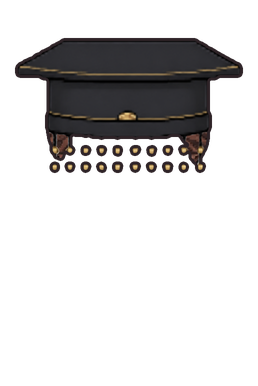
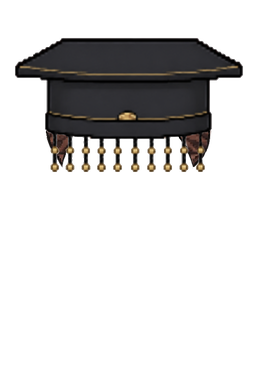
학사모 → 면류관(구슬 줄 살림), 헤어 4개(왕비 티아라 머리·은발 웨이브·봉황 비녀 쪽머리·진주 땋은 쪽머리), 신발 '노랑 운동화' 추가
Claude-Session: https://claude.ai/code/session_015VxnKS3baGbwJXJNNp74ix

diff --git a/avatar.js b/avatar.js
@@ -7,11 +7,11 @@ const AV_HAIR = [["#6b4a3f"], ["#3a3a46"], ["#ffe066"], ["#ffb347"], ["#ff6b6b"]
 // 볼색: 볼터치 그림(av/cheek-N.png, av/cheek.py로 만듦)은 모양만 있어서 이 색을 곱해서 칠함. 주근깨(av/cheek-N-f.png)는 그림 색 그대로
 const AV_CHEEK = [["#ff8fa3"], ["#ffab91"], ["#ff5c8a"], ["#ff6b6b"], ["#ffb36b"], ["#c9a0ff"]];
 const AV_FRECK = [2, 3]; // 주근깨가 같이 있는 볼터치 번호
-const AV_EAR = new Set([5, 6, 8, 9, 10, 11, 16, 19, 20, 23]); // 귀를 머리 위에 다시 그리는 머리(짧은 머리). 옆 더듬이 머리가 귀 앞으로 내려오는 긴 머리는 안 올림 (머리카락이 잘려 보여서)
+const AV_EAR = new Set([5, 6, 8, 9, 10, 11, 16, 19, 20, 23, 29]); // 귀를 머리 위에 다시 그리는 머리(짧은 머리). 옆 더듬이 머리가 귀 앞으로 내려오는 긴 머리는 안 올림 (머리카락이 잘려 보여서)
 const AV_NAMES = {
-  hair: ["앞머리 양 똥머리", "앞머리 똥머리", "어깨 웨이브", "양 갈래 머리", "앞머리 단발", "가르마 짧은 머리", "쉼표 머리", "앞머리 긴 웨이브", "삐죽 머리", "곱슬 머리", "올린 삐죽 머리", "옆 가르마 머리", "산타 모자", "상어 모자", "양 갈래 땋은 머리", "양 갈래 웨이브", "까까머리", "긴 생머리", "앞머리 웨이브", "부스스 머리", "번개 스포츠머리", "레게 머리", "울프컷", "모히칸", "왕자 티아라 머리", "곰돌이 모자", "학사모", "금발 왕관 머리"],
+  hair: ["앞머리 양 똥머리", "앞머리 똥머리", "어깨 웨이브", "양 갈래 머리", "앞머리 단발", "가르마 짧은 머리", "쉼표 머리", "앞머리 긴 웨이브", "삐죽 머리", "곱슬 머리", "올린 삐죽 머리", "옆 가르마 머리", "산타 모자", "상어 모자", "양 갈래 땋은 머리", "양 갈래 웨이브", "까까머리", "긴 생머리", "앞머리 웨이브", "부스스 머리", "번개 스포츠머리", "레게 머리", "울프컷", "모히칸", "왕자 티아라 머리", "곰돌이 모자", "면류관", "금발 왕관 머리", "왕비 티아라 머리", "은발 웨이브", "봉황 비녀 쪽머리", "진주 땋은 쪽머리"],
   top: ["세일러 블라우스", "크림 후드티", "검정 재킷", "분홍 가디건", "고양이 후드티", "흰 셔츠", "곰돌이 니트", "검정 프릴 블라우스", "줄무늬 티", "하얀 패딩", "빨간 망토", "카키 야상", "멜빵 원피스", "검정 후드티", "레이스 블라우스", "검정 도복", "가죽 재킷", "산타 옷", "산타 원피스", "요정 옷", "눈사람 옷", "진저브레드 옷", "루돌프 옷", "트리 스웨터 잠옷", "호두까기 인형 옷", "의사 가운 세트", "요리사 세트", "멜빵바지 세트", "승무원 세트", "기장 세트", "가디건 세트", "흰 가운 세트", "흰 도복 세트", "빨간 로봇 슈트", "소방관 옷", "우주인 점퍼", "군복 셔츠", "요리사 옷", "경찰 제복", "의사 가운", "야구 유니폼", "탐험가 셔츠", "승무원 재킷", "갈색 가디건", "컵케이크 앞치마", "검정 도복 세트", "농구 유니폼", "공룡 잠옷", "소방관 세트", "경찰 세트", "레이싱 슈트", "조종사 슈트", "우주복", "하트 꽈배기 가디건", "체크 교복 재킷", "민트 꽃 블라우스", "보라 별 가디건", "분홍 하트 재킷", "백설 공주 옷", "얼음 공주 옷", "세일러 교복", "흰 패딩", "곰돌이 스웨터", "하늘 줄무늬 티", "남색 야구 점퍼", "남색 세일러 블라우스", "분홍 리본 가디건", "자주 리본 케이프", "검정 보라 후드티", "멜빵 블라우스"],
-  shoes: ["맨발", "검정 운동화", "카모 운동화", "파랑 하이탑", "빨강 농구화", "별 운동화", "공룡 발 슬리퍼", "체크 슬립온", "축구화", "검정 로퍼", "토끼 슬리퍼", "갈색 메리제인", "하늘 실내화", "민트 하이탑", "산타 부츠", "분홍 하이탑", "병아리 슬리퍼", "털 부츠", "곰돌이 슬리퍼", "흰 카우보이 부츠", "분홍 장화", "검정 워커", "분홍 캔버스화", "하늘 리본 구두", "보라 리본 구두", "흰 리본 운동화", "하늘 리본 운동화", "크림 고무 샌들", "흰 곰 슬리퍼", "검정 로우 캔버스화", "남색 슬립온", "노랑 샌들", "갈색 로퍼"],
+  shoes: ["맨발", "검정 운동화", "카모 운동화", "파랑 하이탑", "빨강 농구화", "별 운동화", "공룡 발 슬리퍼", "체크 슬립온", "축구화", "검정 로퍼", "토끼 슬리퍼", "갈색 메리제인", "하늘 실내화", "민트 하이탑", "산타 부츠", "분홍 하이탑", "병아리 슬리퍼", "털 부츠", "곰돌이 슬리퍼", "흰 카우보이 부츠", "분홍 장화", "검정 워커", "분홍 캔버스화", "하늘 리본 구두", "보라 리본 구두", "흰 리본 운동화", "하늘 리본 운동화", "크림 고무 샌들", "흰 곰 슬리퍼", "검정 로우 캔버스화", "남색 슬립온", "노랑 샌들", "갈색 로퍼", "노랑 운동화"],
   eye: ["기본 눈", "날렵한 눈", "졸린 눈", "웃는 눈", "윙크", "반짝 눈", "울먹 눈", "화난 눈", "옆 보는 눈", "걱정 눈", "놀란 눈", "시큰둥 눈", "하트 눈", "빙글빙글 눈", "속눈썹 눈", "점 눈", "초롱 눈", "울먹 초롱 눈", "질끈 눈", "웃는 초롱 눈", "초롱 윙크", "졸린 초롱 눈"],
   cheek: ["볼터치 없음", "볼 정중앙", "콧잔등 + 주근깨", "볼 정중앙 + 주근깨", "빗금 볼터치", "작은 동그라미", "콧잔등", "크게 발그레"],
   mouth: ["미소", "활짝 웃는 입", "고양이 입", "작은 입", "시무룩 입", "삐뚤 입", "씩 웃는 입", "메롱", "이 보이게 웃기", "놀란 입", "뽀뽀 입", "일자 입", "송곳니 웃음", "울먹 입", "크게 웃는 입", "쪽 입", "살짝 미소", "삐죽 입"],
@@ -23,9 +23,9 @@ AV_NAMES.pet = ["펫 없음", "강아지", "삼색 고양이", "토끼", "햄스
 const AV_PRICE = { // 0이면 무료 (기본으로 입는 것)
   acc: [0, 14, 12, 10, 6, 7, 8, 10, 8, 14, 14, 14, 14, 9, 10, 8, 9, 10, 6, 8, 12],
   pet: [0, 12, 12, 12, 12, 12, 14, 16, 18, 16, 16, 18, 20, 14, 14, 14, 14, 15, 15, 16, 15, 14, 14],
-  hair: [9, 8, 8, 8, 0, 6, 6, 8, 0, 8, 7, 6, 10, 10, 9, 9, 5, 8, 9, 7, 8, 9, 8, 8, 12, 9, 10, 12],
+  hair: [9, 8, 8, 8, 0, 6, 6, 8, 0, 8, 7, 6, 10, 10, 9, 9, 5, 8, 9, 7, 8, 9, 8, 8, 12, 9, 10, 12, 12, 9, 12, 12],
   top: [8, 7, 9, 7, 9, 0, 8, 9, 0, 9, 10, 9, 9, 8, 10, 10, 11, 14, 14, 14, 13, 13, 13, 12, 14, 12, 12, 11, 12, 12, 10, 12, 11, 12, 10, 12, 9, 10, 10, 11, 10, 9, 10, 8, 9, 11, 9, 13, 12, 12, 13, 12, 14, 9, 11, 10, 9, 11, 12, 12, 10, 11, 9, 7, 10, 9, 8, 10, 9, 10],
-  shoes: [0, 0, 6, 6, 7, 6, 8, 6, 7, 6, 8, 7, 5, 6, 8, 6, 8, 9, 8, 9, 7, 9, 6, 7, 7, 6, 6, 6, 8, 6, 6, 6, 7],
+  shoes: [0, 0, 6, 6, 7, 6, 8, 6, 7, 6, 8, 7, 5, 6, 8, 6, 8, 9, 8, 9, 7, 9, 6, 7, 7, 6, 6, 6, 8, 6, 6, 6, 7, 6],
   eye: Array(22).fill(0),
   mouth: Array(18).fill(0),
   cheek: Array(8).fill(0),
@@ -37,8 +37,8 @@ const AV_ACC = ["acc"]; // 장신구 칸
 const AV_BACK = new Set(["acc-1", "acc-3", "acc-9", "acc-10", "acc-11", "acc-12"]); // 몸보다 뒤에 그리는 장신구 (날개·꼬리). 나머지(망토)는 상의 위
 const AV_TABS = [["eye", "눈"], ["mouth", "입"], ["cheek", "볼터치"], ["hair", "헤어"], ["top", "상의"], ["bottom", "하의"], ["full", "한벌"], ["shoes", "신발"], ["acc", "장신구"], ["pet", "펫"]];
 const AV_FULL = new Set(["top-50","top-51","top-52","top-45","top-47","top-48","top-49","top-17","top-18","top-19","top-20","top-21","top-22","top-23","top-24","top-25","top-26","top-27","top-28","top-29","top-30","top-31","top-32"]); // 위아래 한 벌 옷: 입으면 하의를 안 그림. 가게에서는 '한벌' 칸
-const AV_V = "?v=50"; // 그림을 고치면 숫자를 올림 (브라우저에 남은 옛 그림 대신 새로 받게)
-const AV_HAT = new Set(["hair-12", "hair-13", "hair-24", "hair-25", "hair-26", "hair-27"]); // 모자·헬멧 (헤어 칸): 머리색을 안 칠함, 귀도 안 올림
+const AV_V = "?v=51"; // 그림을 고치면 숫자를 올림 (브라우저에 남은 옛 그림 대신 새로 받게)
+const AV_HAT = new Set(["hair-12", "hair-13", "hair-24", "hair-25", "hair-26", "hair-27", "hair-28", "hair-30", "hair-31"]); // 모자·헬멧 (헤어 칸): 머리색을 안 칠함, 귀도 안 올림
 const AV_HIDE = new Set(["shoes-0"]); // 가게에 안 보이는 것 (맨발: 그림 없음)
 const avInTab = (it, k) => !AV_HIDE.has(it.id) && (k === "acc" ? AV_ACC.includes(it.slot) : k === "full" ? AV_FULL.has(it.id) : k === "top" ? it.slot === "top" && !AV_FULL.has(it.id) : it.slot === k); // 가게 칸에 보일 물건
 // 단위에 맞춘 글: "3 으쓱이 모자라요", "3으쓱으로 바꾸기" (이/가, 으로/로)

diff --git a/index.html b/index.html
@@ -1668,7 +1668,7 @@
     <button class="danger" onclick="resetEverything()">모든 데이터 초기화</button>
   </section>
 </div>
-<script src="avatar.js?v=50"></script><!-- 아바타를 고치면 avatar.js의 AV_V와 같이 숫자를 올림 -->
+<script src="avatar.js?v=51"></script><!-- 아바타를 고치면 avatar.js의 AV_V와 같이 숫자를 올림 -->
 <script>
 setTimeout(() => document.body.classList.add("ready"), 2000); // 혹시 아래에서 오류가 나도 2초 뒤엔 카드를 보여 줌
 // 다른 창(듀얼 모니터)으로 뗀 카드: { 카드: { w: 창, c: 카드, mark: 보드에 돌아올 자리, np: 글자 도구 창 } }

diff --git a/student.html b/student.html
@@ -159,7 +159,7 @@
     </div>
   </div>
 </div>
-<script src="avatar.js?v=50"></script><!-- 아바타를 고치면 avatar.js의 AV_V와 같이 숫자를 올림 -->
+<script src="avatar.js?v=51"></script><!-- 아바타를 고치면 avatar.js의 AV_V와 같이 숫자를 올림 -->
 <script type="module">
 // 서버: classes/{반 코드} = { unit, prices } · classes/{반 코드}/kids/{번호}-{비밀번호} = { n, pt, av, wear, own, buys, kidAt } (이름 없음)
 // 점수는 선생님 보드만 바꿈. 가게 물건은 입어 보기만 하다가 저장할 때 삼(buys에 남김). 선생님 보드가 받아서 점수를 뺌

diff --git a/av/hairuser.py b/av/hairuser.py
@@ -61,6 +61,7 @@ if os.path.exists('raw_user/base-2x.png'):
     Image.fromarray(bk.round().astype(np.uint8)).save(f'base-{k}.png', optimize=True)
     ek = bk.copy(); ek[~ear, 3] = 0; Image.fromarray(ek.round().astype(np.uint8)).save(f'ear-{k}.png', optimize=True)
 # 모자·헬멧(raw_user/hat-N-2x.png → hair-N.png, 헤어 칸): 흰 털·이빨이 있어서 그림 밖과 이어진 흰색 + 얼굴 구멍(가운데 가장 큰 흰 덩어리)만 지우고 테두리 정리. 머리색은 안 칠함
+HAT_HOLES, THIN = {30, 31}, {26}  # 한복 머리(귀 구멍이 흰 칸), 면류관
 for f in glob.glob('raw_user/hat-*-2x.png'):
   k = int(os.path.basename(f)[4:-7])
   a = np.array(Image.open(f).convert('RGBA').crop((0, 0, 516, 772))).astype(float)
@@ -68,9 +69,11 @@ for f in glob.glob('raw_user/hat-*-2x.png'):
   lab, n = ndimage.label(wh); edge = np.unique(np.r_[lab[0], lab[-1], lab[:, 0], lab[:, -1]])
   inner = [i for i in range(1, n + 1) if i not in edge]; face = max(inner, key=lambda i: (lab == i).sum()) if inner else -1
   out = np.isin(lab, edge) & (lab > 0) | (lab == face)
+  if k in HAT_HOLES: out |= np.isin(lab, [i for i in inner if (lab == i).sum() > 300])  # 귀 구멍처럼 막힌 흰 칸도 모두 비움
   for _ in range(2): out |= ndimage.binary_dilation(out) & (a[..., :3].min(-1) > 170) & (a[..., 3] > 0)
   a[out, 3] = 0
-  col, al = uniform(a[..., 3] > 128, a[..., :3], 2); a = np.dstack([col, al * 255])
+  if k not in THIN:  # 가는 줄(면류관 구슬 줄)이 있는 그림은 테두리를 다시 그리지 않음 (다시 그리면 가는 선이 지워짐)
+    col, al = uniform(a[..., 3] > 128, a[..., :3], 2); a = np.dstack([col, al * 255])
   Image.fromarray(a.round().clip(0, 255).astype(np.uint8)).resize((258, 386), Image.LANCZOS).save(f'hair-{k}.png', optimize=True)
 # 눈·입(raw_user/eye-N-2x.png, mouth-N-2x.png): 그림 밖과 이어진 흰색만 지우고(눈 속 반짝이는 그대로) 절반으로. 가는 선이라 테두리는 안 다시 그림
 for f in glob.glob('raw_user/eye-*-2x.png') + glob.glob('raw_user/mouth-*-2x.png'):
